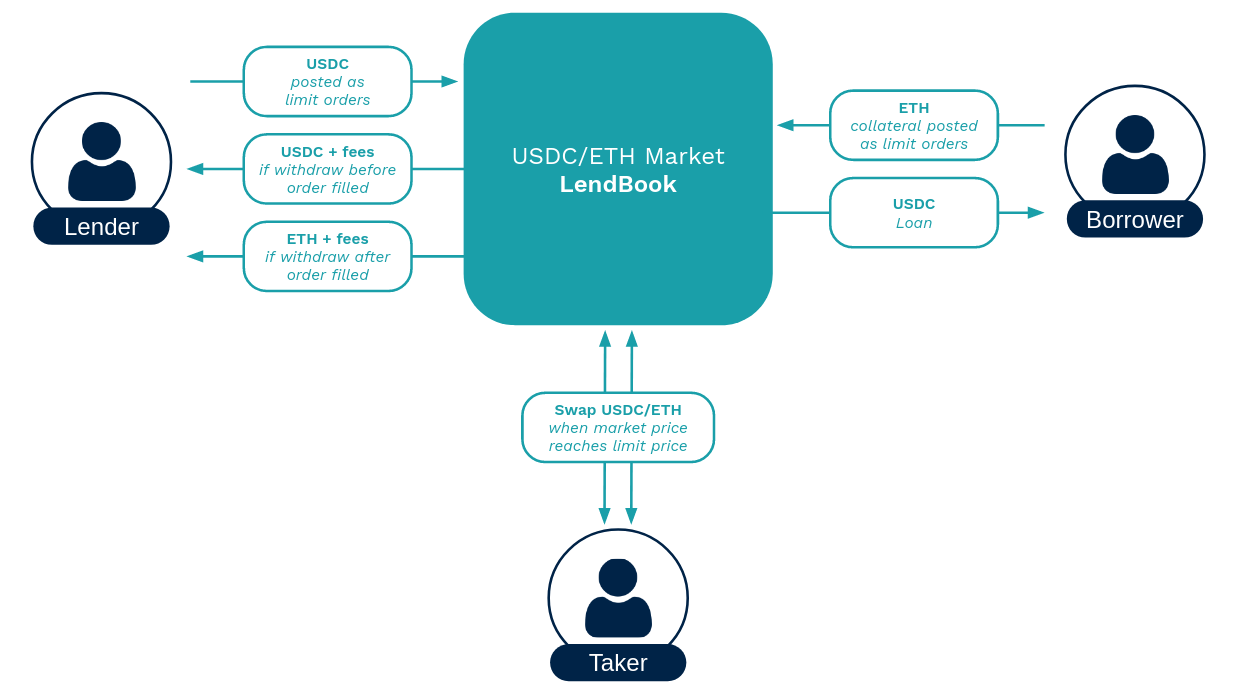
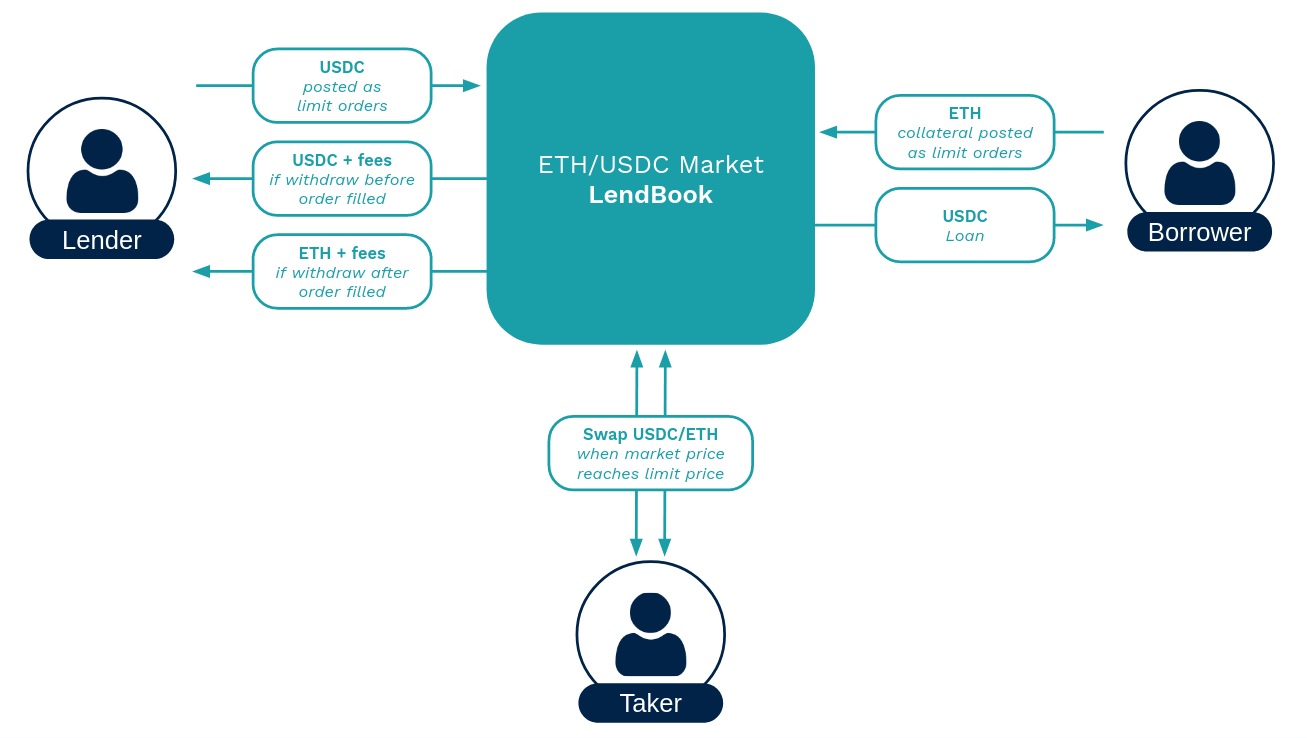
end of rules

diff --git a/docs/how-it-works/rules.md b/docs/how-it-works/rules.md
@@ -7,7 +7,9 @@ The main rules are :
     As mentioned in the [pools of orders section](../pools-of-orders), limit orders can be posted within a restricted set of pools. Each pool has an assigned limit price.
 
     !!! note "Example"
-        In the ETH/USDC market, Alice can deposit USDC as a buy order in the Pool~2000~ at limit price of 2000. 
+        In the ETH/USDC market, let's suppose the current market price is 2110.
+        
+        Alice can deposit USDC as a buy order in the Pool~2000~ at limit price of 2000. 
         
 
 * **Assets which serve as collateral cannot be borrowed.**
@@ -15,9 +17,9 @@ The main rules are :
     Borrowers place limit orders as collateral in a pool in order to borrow assets posted by lenders in another pool. Collateral assets cannot be borrowed by another borrower.
 
     !!! note "Example"
-        In the ETH/USDC market, Alice deposits USDC in buy orders in the Pool~2000~ at limit price of 2000. 
+        Alice deposits 6000 USDC in buy orders in the Pool~2000~ at limit price of 2000. 
         
-        Bob deposits ETH in sell orders as a collateral in the Pool~2200~. Bob can borrow the USDC deposited by Alice in the Pool~2000~. 
+        Bob deposits 2 ETH in sell orders as a collateral in the Pool~2200~. Bob can borrow 3600 USDC deposited by Alice in the Pool~2000~. 
         
         However if Carol wants to borrow ETH from Pool~2200~ , Bob's collateral cannot be borrowed by Carol.
 
@@ -25,9 +27,9 @@ The main rules are :
 
     If the market price reaches the limit price of the pool, takers can trade part or all assets which are not borrowed in that pool. The first trade automatically liquidates all the borrowing positions from the pool. Limit orders that have been borrowed are filled thanks to the collateral they receive from the borrowers.
     !!! note "Example"
-        Alice’s buy order is borrowed by Bob. Imagine market price reaches the limit price of Pool~2000~ , a taker trades a portion of the assets that are not borrowed, and so Bob’s position is closed out. Alice’s buy order is filled and the collateral is transfered to Alice.
-
-        When market price reaches the limit price of Pool~2000~, a taker can trade part of the assets in this pool, Bob’s position is closed out. Bob's collateral is transfered to Alice. 
+        Alice’s buy order is borrowed by Bob. 
+        
+        When market price reaches the limit price of Pool~2000~ , a taker trades a portion of the assets that are not borrowed. This automatically closes Bob's position and Bob's collateral is transfered to Alice. 
 
 * **Interest rates are shared between all the lenders of a pool.**
     
@@ -41,8 +43,16 @@ The main rules are :
     
     There are two types of liquidations : interest-based liquidation and price-based liquidation. Check the [liquidations section](../liquidation) for more details.
 
-    !!! note "Example for the price-based liquidation"
-        Example continued with the addition of a 1% liquidation fee : Alice’s buy order is filled for 3 ETH. Bob’s collateral transferred to Alice is 2 × 1.01 = 2.02 ETH.
+    !!! note "Example continued with the addition of a 1% liquidation fee (price-based liquidation)"
+        When market price reaches the limit price of Pool~2000~ , a taker trades a portion of the assets that are not borrowed. This automatically closes Bob's position and Bob's collateral is transfered to Alice. 
+
+        Bob's loan is equal to 3600 USDC, so Bob's collateral is equal to 1.8 ETH (=3600/2000 where 2000 corresponds to the pool limit price.)
+
+        Bob’s collateral transferred to Alice is 1.8 + 1.8×0.01 = 1.818 ETH (collateral + liquidation fee). 
+        
+        Alice’s remaining buy order 2400 USDC (=6000-3600) is filled for 1.2 ETH (=2400/2000). 
+        
+        In total, Alice receives 3.018 ETH. For simplicity, interest rates are not included in this example.
 
 * **When a borrower limit order is filled, the borrowing positions linked to this order are automatically closed out.**
 
@@ -50,16 +60,30 @@ The main rules are :
     
     If the market price reaches the limit price of the pool (where borrowers' orders are), takers can trade assets which serve as collateral for the borrowers. When a limit order is filled, borrowing positions linked to this order are automatically closed out inside the other pools.
   
-    The closing of the borrowing position guarantees that the type of assets serving as collateral always matches the type needed in case of liquidation.
+    The closing of the borrowing position guarantees that the type of assets serving as collateral always matches the type needed in case of liquidation. 
+    
+    Check the [take profit use case](../../use-cases/take-profit) for more details.
 
-    [to continue]
 
-    !!! note "Example"
-        Example (variant): Bob’s sell order was place in the Pool~2200~. The market price reaches the limit price of this pool. Bob's order is filled first for 2 × 2200 = 4400 USDC, of which 3800 are kept by the protocol to close his borrowing position from Alice’s buy order. Bob is left with 3800 (borrowed assets) 600 = 4400 USDC.
+    !!! note "Example (variant)"
+        Bob has deposited his collateral (2 ETH) as a sell order in the Pool~2200~. 
+        
+        The market price has now reached 2200, the limit price of this pool. Bob's order is filled for 4400 USDC (=2×2200).
+        
+        The protocol keeps 3600 USDC to close Bob's borrowing position from Alice’s buy order. Bob is then left with 800 USDC (=4400-3600). 
+        
+        But Bob keeps his former loan of 3600 USDC, so all in all, Bob leaves with 4400 USDC.
 
-* **Orders which assets are taken are automatically replaced on the opposite side of the order book.**
+* **Assets whose orders have been filled are automatically placed on the opposite side of the order book.**
 
-    The converted assets are replaced at a limit price specified by the lender, or, in the absence of such specification, at a default limit price. This default is set at 10% above or below the previous limit price, depending on the nature of the order. Lenders can then change the limit price if they wish or withdraw the assets.
+    When a limit order is filled, the converted assets are replaced as a new limit order on the opposite side of the order book. 
+    
+    The new limit price may have been specified by the lender, or, in the absence of such specification, at a default limit price. 
+    
+    By default, the order is placed in the pool just above or just below the current market price. Lenders can then withdraw the assets or change the limit price if they wish.
 
-    !!! note "Example"
-        Example (follow up): Alice’s buy order is filled for 3 ETH. The protocol relocates the ETH in a sell order which limit price is by default is 2090 (1900 + 10%).
+    !!! note "Example (follow up of example from rule 5)"
+        When market price reaches the limit price of Pool~2000~ , Alice’s buy order is filled, and so Alice receives 3.018 ETH. 
+        
+        The protocol relocates the ETH in a sell order which is located by default in the Pool~2200~.
+

diff --git a/docs/how-it-works/interest-rates.md b/docs/how-it-works/interest-rates.md
@@ -1,1 +1,12 @@
-Interest rates are shared between all the lenders of a pool.
+Borrowers who borrow from a pool pay interest rates to the lenders in that same pool.
+
+**The interest rate is calculated per pool**, and **it depends on the pool's utilisation rate**. Interest rates are shared between all the lenders of a pool.
+
+<h2 style="font-weight: bold;">Calcul of the Utilisation Rate</h2>
+
+The liquidity deposited by lenders in a pool can be divided into three categories :
+
+- **Non-Borrowable liquidity** :  It is left to incentivize takers to make a trade when the market price reaches the limit price. Indeed, the first trade of a taker is important because it activates the liquidation of all the borrowing positions from the pool. The ratio of the non-Borrowable liquidity is defined at the smart contract level (e.i. 10% of the liquidity).
+- **Borrowed liquidity** : Borrowable assets which are currently borrowed.
+- **Excess Liquidity** : Borrowable assets which are not yet borrowed. Borrowing or withdrawing from the pool reduce
+

diff --git a/docs/how-it-works/market-participants.md b/docs/how-it-works/market-participants.md
@@ -2,7 +2,7 @@ There are three types of market participants in LendBook: **lenders**, **borrowe
 
 <figure markdown>
   ![Image title](../images/market-participants-1.png)
-  <em>This diagram encapsulates the relationship of the market participants and LendBook, for a USDC/ETH market (Here lenders can lend USDC, borrowers can borrow USDC with ETH as collateral, and takers can trade USDC for ETH and vice versa).</em>
+  <em>This diagram encapsulates the relationship of the market participants and LendBook, for a ETH/USDC market (Here lenders can lend USDC, borrowers can borrow USDC with ETH as collateral, and takers can trade USDC for ETH and vice versa).</em>
 </figure>
 
 

diff --git a/docs/how-it-works/pools-of-orders.md b/docs/how-it-works/pools-of-orders.md
@@ -32,4 +32,3 @@ The interest rate is calculated per pool. It depends on the pool's utilisation r
       ![Image title](../images/how-it-works-pool-2.png)
     </figure>
 
-
